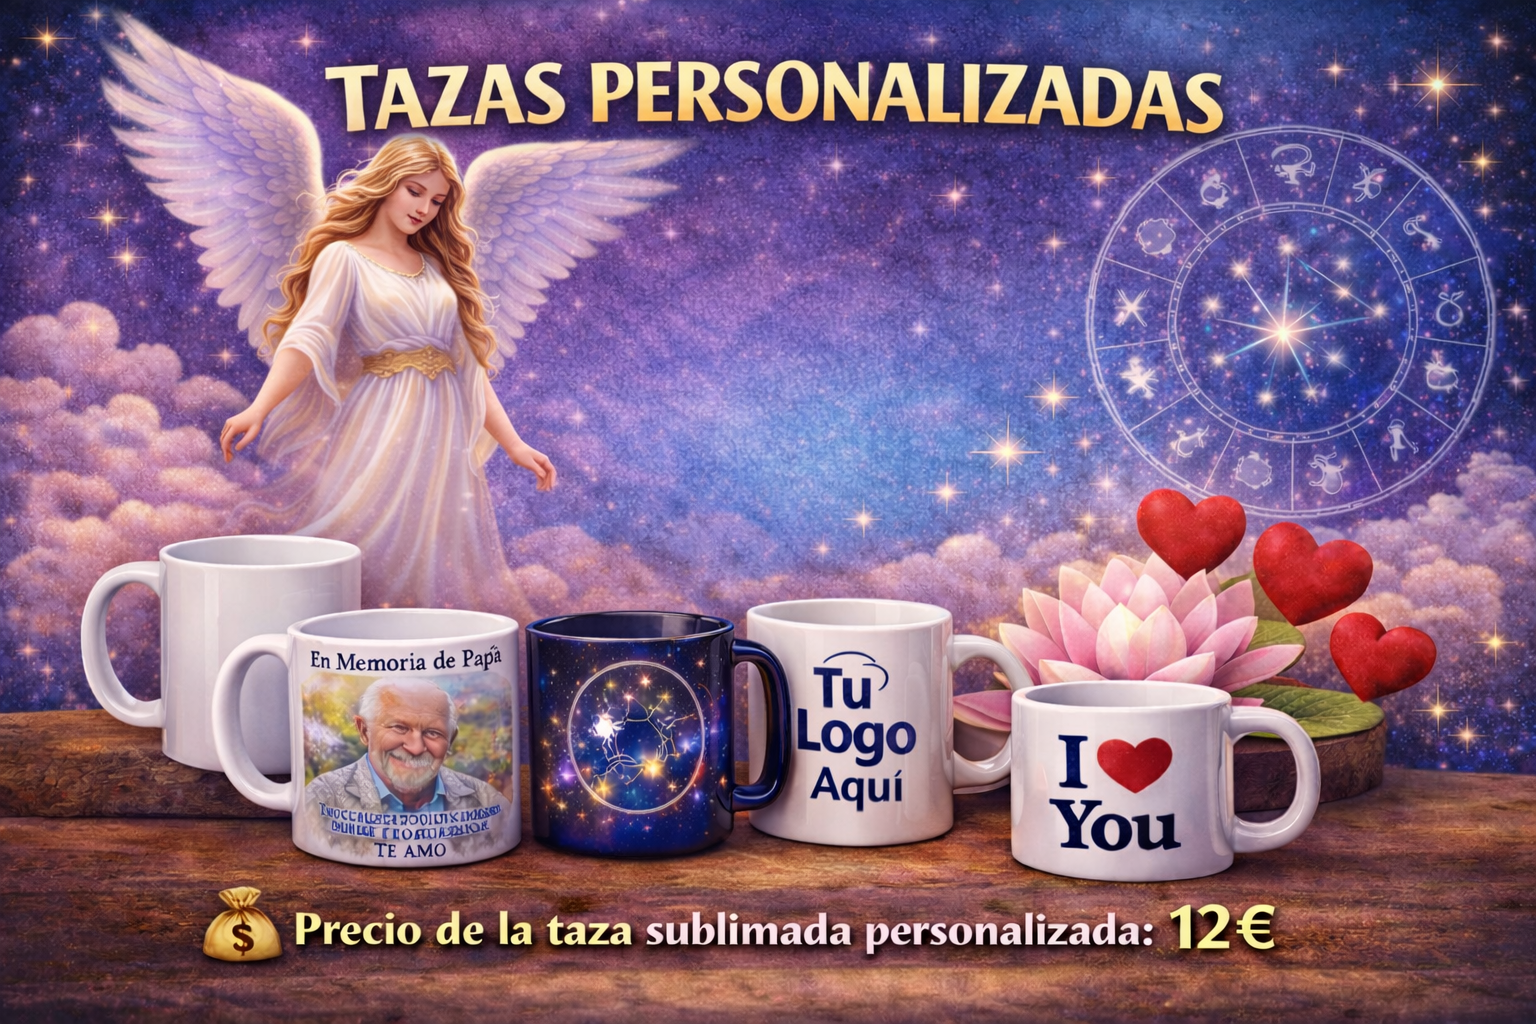
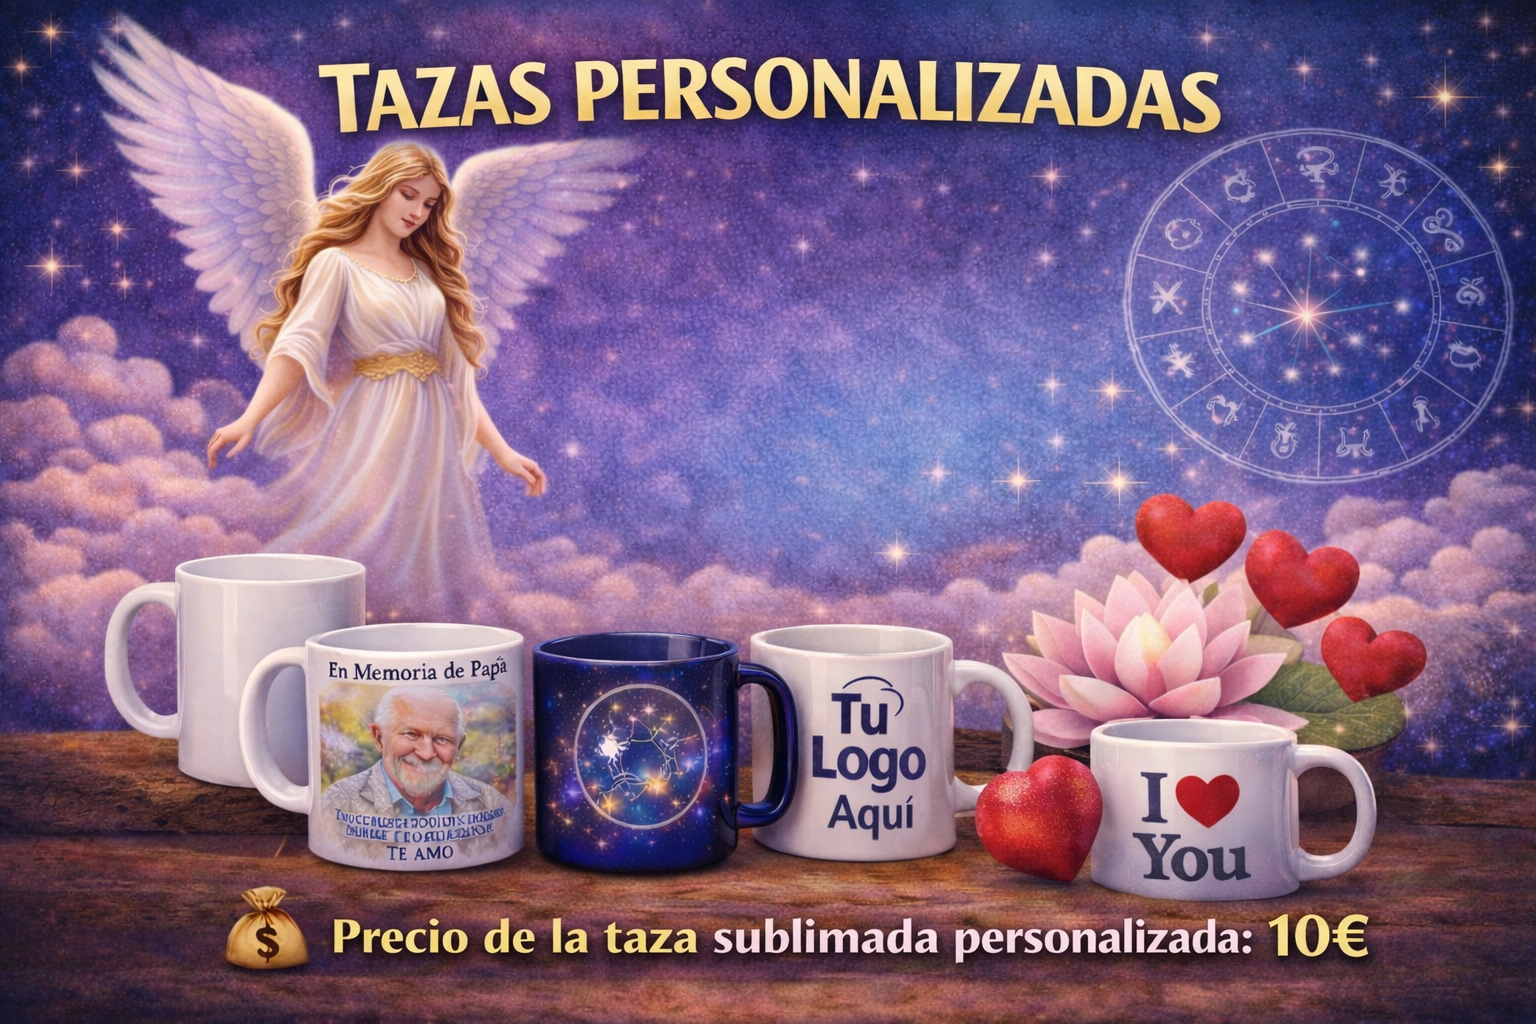
correccion del precio de las tazas

diff --git a/tienda.html b/tienda.html
@@ -115,7 +115,7 @@ obtener orientación psíquica y encontrar claridad en tu camino.">
               </a>
                 <p>Tazas personalizadas sublimadas, ideales para regalar o para uso personal. Trabajo con taza blanca de 11oz, perfecta para el día a día y con acabado de alta calidad.</p>
                 <p>Es necesario que el cliente aporte el logo o la fotografía que desea utilizar en el diseño  a través de WhatsApp.</p>
-                <span class="precio">12€</span>
+                <span class="precio">10€</span>
             </article>
           </div>
 
